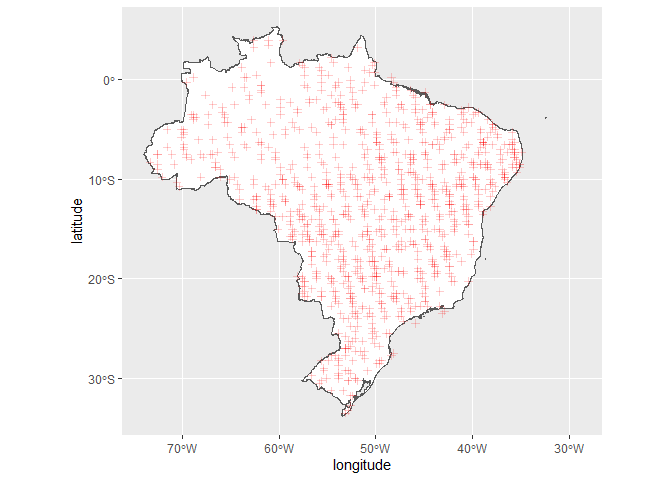
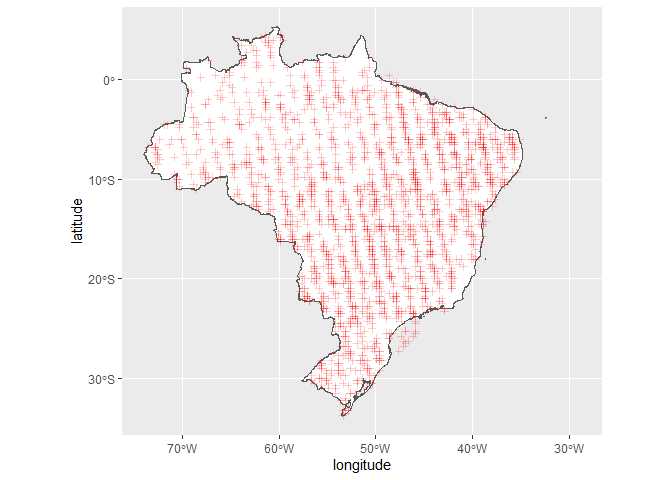
descritivas dos datasetes

Changed region(s): [[0.2188, 0.0625, 0.7812, 0.875]]

diff --git a/README.md b/README.md
@@ -30,7 +30,9 @@ Para facilitar o acesso, os dodos foram adquiridos por meio do pacote
 
 library(tidyverse)
 library(geobr)
-library(fco2r) 
+library(fco2r)
+library(skimr)
+source("R/my_fun.R")
 ```
 
 ### Conhecendo a base de dados de CO<sub>2</sub> atmosférico
@@ -79,7 +81,7 @@ br %>%
   ggplot() +
   geom_sf(fill = "white") +
     geom_point(data=oco2_br %>% 
-                 sample_n(1000),
+                 sample_n(2000),
              aes(x=longitude,y=latitude),
              shape=3,
              col="red",
@@ -88,10 +90,56 @@ br %>%
 
 ![](README_files/figure-gfm/unnamed-chunk-6-1.png)<!-- -->
 
-Observe que utilizamos `dplyr::sample_n()` para retirar apenas
-![1000](https://latex.codecogs.com/png.image?%5Cdpi%7B110%7D&space;%5Cbg_white&space;1000 "1000")
-amostras do total do banco de dados
-![146,646](https://latex.codecogs.com/png.image?%5Cdpi%7B110%7D&space;%5Cbg_white&space;146%2C646 "146,646").
+Observe que utilizamos `dplyr::sample_n()` para retirar apenas 1000
+amostras do total do banco de dados 146, 646.
+
+#### Estatísticas descritivas
+
+``` r
+skim(oco2_br)
+```
+
+|                                                  |          |
+|:-------------------------------------------------|:---------|
+| Name                                             | oco2\_br |
+| Number of rows                                   | 146646   |
+| Number of columns                                | 11       |
+| \_\_\_\_\_\_\_\_\_\_\_\_\_\_\_\_\_\_\_\_\_\_\_   |          |
+| Column type frequency:                           |          |
+| character                                        | 4        |
+| numeric                                          | 7        |
+| \_\_\_\_\_\_\_\_\_\_\_\_\_\_\_\_\_\_\_\_\_\_\_\_ |          |
+| Group variables                                  | None     |
+
+Data summary
+
+**Variable type: character**
+
+| skim\_variable             | n\_missing | complete\_rate | min | max | empty | n\_unique | whitespace |
+|:---------------------------|-----------:|---------------:|----:|----:|------:|----------:|-----------:|
+| longitude\_bnds            |          0 |              1 |  20 |  29 |     0 |       157 |          0 |
+| latitude\_bnds             |          0 |              1 |  27 |  31 |     0 |       157 |          0 |
+| time\_bnds\_yyyymmddhhmmss |          0 |              1 |  29 |  29 |     0 |      2033 |          0 |
+| alt\_bnds\_km              |          0 |              1 |  11 |  17 |     0 |        73 |          0 |
+
+**Variable type: numeric**
+
+| skim\_variable                             | n\_missing | complete\_rate |          mean |           sd |            p0 |           p25 |           p50 |           p75 |          p100 | hist  |
+|:-------------------------------------------|-----------:|---------------:|--------------:|-------------:|--------------:|--------------:|--------------:|--------------:|--------------:|:------|
+| longitude                                  |          0 |              1 | -5.062000e+01 | 7.950000e+00 | -7.383000e+01 | -5.562000e+01 | -5.037000e+01 | -4.463000e+01 | -3.490000e+01 | ▁▃▇▇▅ |
+| latitude                                   |          0 |              1 | -1.243000e+01 | 7.780000e+00 | -3.371000e+01 | -1.777000e+01 | -1.154000e+01 | -6.800000e+00 |  5.160000e+00 | ▂▅▇▇▂ |
+| time\_yyyymmddhhmmss                       |          0 |              1 |  2.017376e+13 | 1.785733e+10 |  2.014091e+13 |  2.016051e+13 |  2.017111e+13 |  2.019061e+13 |  2.020103e+13 | ▅▅▃▅▇ |
+| altitude\_km                               |          0 |              1 |  3.103830e+03 | 1.164900e+02 |  2.555700e+03 |  3.026300e+03 |  3.118260e+03 |  3.180210e+03 |  3.307800e+03 | ▁▁▃▇▆ |
+| fluorescence\_offset\_relative\_771nm\_idp |          0 |              1 | -1.077410e+03 | 3.280654e+04 | -9.999990e+05 |  1.000000e-02 |  1.000000e-02 |  2.000000e-02 |  3.070000e+00 | ▁▁▁▁▇ |
+| fluorescence\_offset\_relative\_757nm\_idp |          0 |              1 | -5.796100e+02 | 2.406853e+04 | -9.999990e+05 |  0.000000e+00 |  1.000000e-02 |  2.000000e-02 |  2.380000e+01 | ▁▁▁▁▇ |
+| xco2\_moles\_mole\_1                       |          0 |              1 |  0.000000e+00 | 0.000000e+00 |  0.000000e+00 |  0.000000e+00 |  0.000000e+00 |  0.000000e+00 |  0.000000e+00 | ▁▁▇▁▁ |
+
+``` r
+visdat::vis_miss(oco2_br %>% 
+                   sample_n(10000))
+```
+
+![](README_files/figure-gfm/unnamed-chunk-8-1.png)<!-- -->
 
 ### Conhecendo a base de dados de emissão de CO<sub>2</sub> do solo
 
@@ -150,8 +198,114 @@ data_fco2 %>%
   ggplot(aes(y=FCO2, x=data)) +
   geom_line() +
    facet_wrap(~experimento+ cultura, scale="free")
-#> `summarise()` has grouped output by 'experimento', 'cultura'. You can override
-#> using the `.groups` argument.
+#> `summarise()` has grouped output by 'experimento', 'cultura'. You can override using the `.groups` argument.
 ```
 
-![](README_files/figure-gfm/unnamed-chunk-8-1.png)<!-- -->
+![](README_files/figure-gfm/unnamed-chunk-10-1.png)<!-- -->
+
+### Construindo o mapa com os pontos
+
+``` r
+br %>% 
+  ggplot() +
+  geom_sf(fill = "white") +
+    geom_point(data=oco2_br %>% 
+                 sample_n(2000),
+             aes(x=longitude,y=latitude),
+             shape=3,
+             col="red",
+             alpha=0.2)
+```
+
+![](README_files/figure-gfm/unnamed-chunk-11-1.png)<!-- -->
+
+Observe que utilizamos `dplyr::sample_n()` para retirar apenas 1000
+amostras do total do banco de dados 146, 646.
+
+#### Estatísticas descritivas
+
+``` r
+skim(data_fco2)
+```
+
+|                                                  |            |
+|:-------------------------------------------------|:-----------|
+| Name                                             | data\_fco2 |
+| Number of rows                                   | 15397      |
+| Number of columns                                | 39         |
+| \_\_\_\_\_\_\_\_\_\_\_\_\_\_\_\_\_\_\_\_\_\_\_   |            |
+| Column type frequency:                           |            |
+| character                                        | 7          |
+| Date                                             | 3          |
+| logical                                          | 2          |
+| numeric                                          | 27         |
+| \_\_\_\_\_\_\_\_\_\_\_\_\_\_\_\_\_\_\_\_\_\_\_\_ |            |
+| Group variables                                  | None       |
+
+Data summary
+
+**Variable type: character**
+
+| skim\_variable | n\_missing | complete\_rate | min | max | empty | n\_unique | whitespace |
+|:---------------|-----------:|---------------:|----:|----:|------:|----------:|-----------:|
+| experimento    |          0 |              1 |   8 |   8 |     0 |         2 |          0 |
+| manejo         |          0 |              1 |   6 |  15 |     0 |        10 |          0 |
+| tratamento     |          0 |              1 |   2 |  10 |     0 |        21 |          0 |
+| cultura        |          0 |              1 |   4 |  14 |     0 |        11 |          0 |
+| estado         |          0 |              1 |   2 |   2 |     0 |         2 |          0 |
+| municipio      |          0 |              1 |   7 |  20 |     0 |         6 |          0 |
+| prof           |          0 |              1 |   5 |   7 |     0 |         2 |          0 |
+
+**Variable type: Date**
+
+| skim\_variable | n\_missing | complete\_rate | min        | max        | median     | n\_unique |
+|:---------------|-----------:|---------------:|:-----------|:-----------|:-----------|----------:|
+| data           |          0 |              1 | 2001-07-10 | 2019-12-01 | 2014-07-12 |       205 |
+| data\_preparo  |          0 |              1 | 1986-03-01 | 2019-04-01 | 2002-01-01 |        14 |
+| conversao      |          0 |              1 | 1970-01-01 | 2009-07-03 | 1986-03-01 |        11 |
+
+**Variable type: logical**
+
+| skim\_variable     | n\_missing | complete\_rate | mean | count      |
+|:-------------------|-----------:|---------------:|-----:|:-----------|
+| revolvimento\_solo |          0 |              1 |    0 | FAL: 15397 |
+| cobertura          |          0 |              1 |    1 | TRU: 15397 |
+
+**Variable type: numeric**
+
+| skim\_variable  | n\_missing | complete\_rate |       mean |         sd |        p0 |        p25 |        p50 |        p75 |       p100 | hist  |
+|:----------------|-----------:|---------------:|-----------:|-----------:|----------:|-----------:|-----------:|-----------:|-----------:|:------|
+| x               |          0 |           1.00 | 1392083.56 | 2923710.70 |      0.00 |       0.00 |      30.00 |     100.00 | 7749472.16 | ▇▁▁▁▂ |
+| y               |          0 |           1.00 |  495854.97 | 1722529.75 |      0.00 |       0.00 |      27.00 |      80.00 | 7630525.47 | ▇▁▁▁▁ |
+| longitude\_muni |          0 |           1.00 | 1067926.05 | 1796771.47 | 456798.63 |  458447.46 |  458447.46 |  792043.56 | 7638196.06 | ▇▁▁▁▁ |
+| latitude\_muni  |          0 |           1.00 | 7231328.21 | 1754220.76 | 795907.06 | 7635356.70 | 7749398.84 | 7749821.85 | 7758831.37 | ▁▁▁▁▇ |
+| ID              |          0 |           1.00 |      40.52 |      31.52 |      1.00 |      13.00 |      35.00 |      60.00 |     141.00 | ▇▅▃▁▁ |
+| FCO2            |        110 |           0.99 |       2.78 |       2.08 |     -3.42 |       1.30 |       2.16 |       3.75 |      46.93 | ▇▁▁▁▁ |
+| Ts              |        317 |           0.98 |      21.84 |       6.76 |      1.00 |      19.33 |      22.50 |      26.15 |     195.63 | ▇▁▁▁▁ |
+| Us              |       1754 |           0.89 |      16.31 |       8.93 |      0.00 |      10.00 |      14.06 |      22.00 |      89.00 | ▇▅▁▁▁ |
+| pH              |       2802 |           0.82 |       4.64 |       1.13 |      3.50 |       4.00 |       4.50 |       5.15 |      52.00 | ▇▁▁▁▁ |
+| MO              |       1355 |           0.91 |      21.59 |      12.60 |      1.35 |      12.00 |      23.00 |      29.00 |      61.26 | ▆▇▇▂▁ |
+| P               |       1355 |           0.91 |      20.95 |      24.74 |      1.00 |       6.00 |      15.48 |      27.36 |     253.00 | ▇▁▁▁▁ |
+| K               |       1348 |           0.91 |       2.40 |       2.21 |      0.03 |       0.90 |       1.70 |       3.40 |      34.00 | ▇▁▁▁▁ |
+| Ca              |       1376 |           0.91 |      17.20 |      14.57 |      1.10 |       6.00 |      11.00 |      26.00 |      94.00 | ▇▃▁▁▁ |
+| Mg              |       1376 |           0.91 |      10.13 |       5.65 |      0.32 |       7.00 |      10.00 |      13.00 |      65.00 | ▇▂▁▁▁ |
+| H\_Al           |       1362 |           0.91 |      46.89 |      29.38 |      0.00 |      26.00 |      42.29 |      72.00 |     121.00 | ▅▇▆▂▂ |
+| SB              |       1376 |           0.91 |      29.69 |      20.10 |      1.54 |      15.60 |      23.80 |      42.00 |     161.30 | ▇▃▁▁▁ |
+| CTC             |       1369 |           0.91 |      77.10 |      32.99 |      4.62 |      59.23 |      83.40 |     103.20 |     173.30 | ▂▃▇▃▁ |
+| V               |       1383 |           0.91 |      41.68 |      20.05 |      4.96 |      22.00 |      43.00 |      58.00 |     100.00 | ▆▆▇▅▁ |
+| Ds              |       3284 |           0.79 |       1.38 |       0.17 |      0.88 |       1.24 |       1.38 |       1.52 |       1.86 | ▁▆▇▇▁ |
+| Macro           |       3277 |           0.79 |       8.55 |       7.85 |    -45.30 |       0.15 |       8.13 |      13.64 |      49.77 | ▁▁▇▃▁ |
+| Micro           |       3298 |           0.79 |      25.30 |      17.13 |      0.07 |       0.37 |      33.86 |      38.30 |      52.42 | ▅▁▂▇▁ |
+| VTP             |       3298 |           0.79 |      42.34 |      15.65 |     -4.68 |      40.81 |      46.25 |      51.32 |      87.80 | ▂▁▇▃▁ |
+| PLA             |       3438 |           0.78 |      29.57 |      11.80 |    -47.30 |      21.27 |      32.41 |      38.15 |      79.80 | ▁▁▅▇▁ |
+| AT              |       8083 |           0.48 |    1013.33 |    1358.81 |     11.72 |     236.00 |     593.62 |     816.00 |    4542.73 | ▇▁▁▁▂ |
+| SILTE           |       8048 |           0.48 |     229.26 |     336.37 |      1.26 |      50.87 |      73.65 |     188.00 |    1395.00 | ▇▁▁▁▁ |
+| ARG             |       8055 |           0.48 |     995.41 |    1560.32 |     27.19 |     173.27 |     403.69 |     609.50 |    5244.76 | ▇▁▁▁▂ |
+| HLIFS           |      10872 |           0.29 |   14590.11 |   17253.55 |    158.39 |    1110.15 |    2409.80 |   29707.78 |   84692.90 | ▇▃▁▁▁ |
+
+``` r
+visdat::vis_miss(data_fco2 %>% 
+                   sample_n(10000))
+```
+
+![](README_files/figure-gfm/unnamed-chunk-13-1.png)<!-- -->
